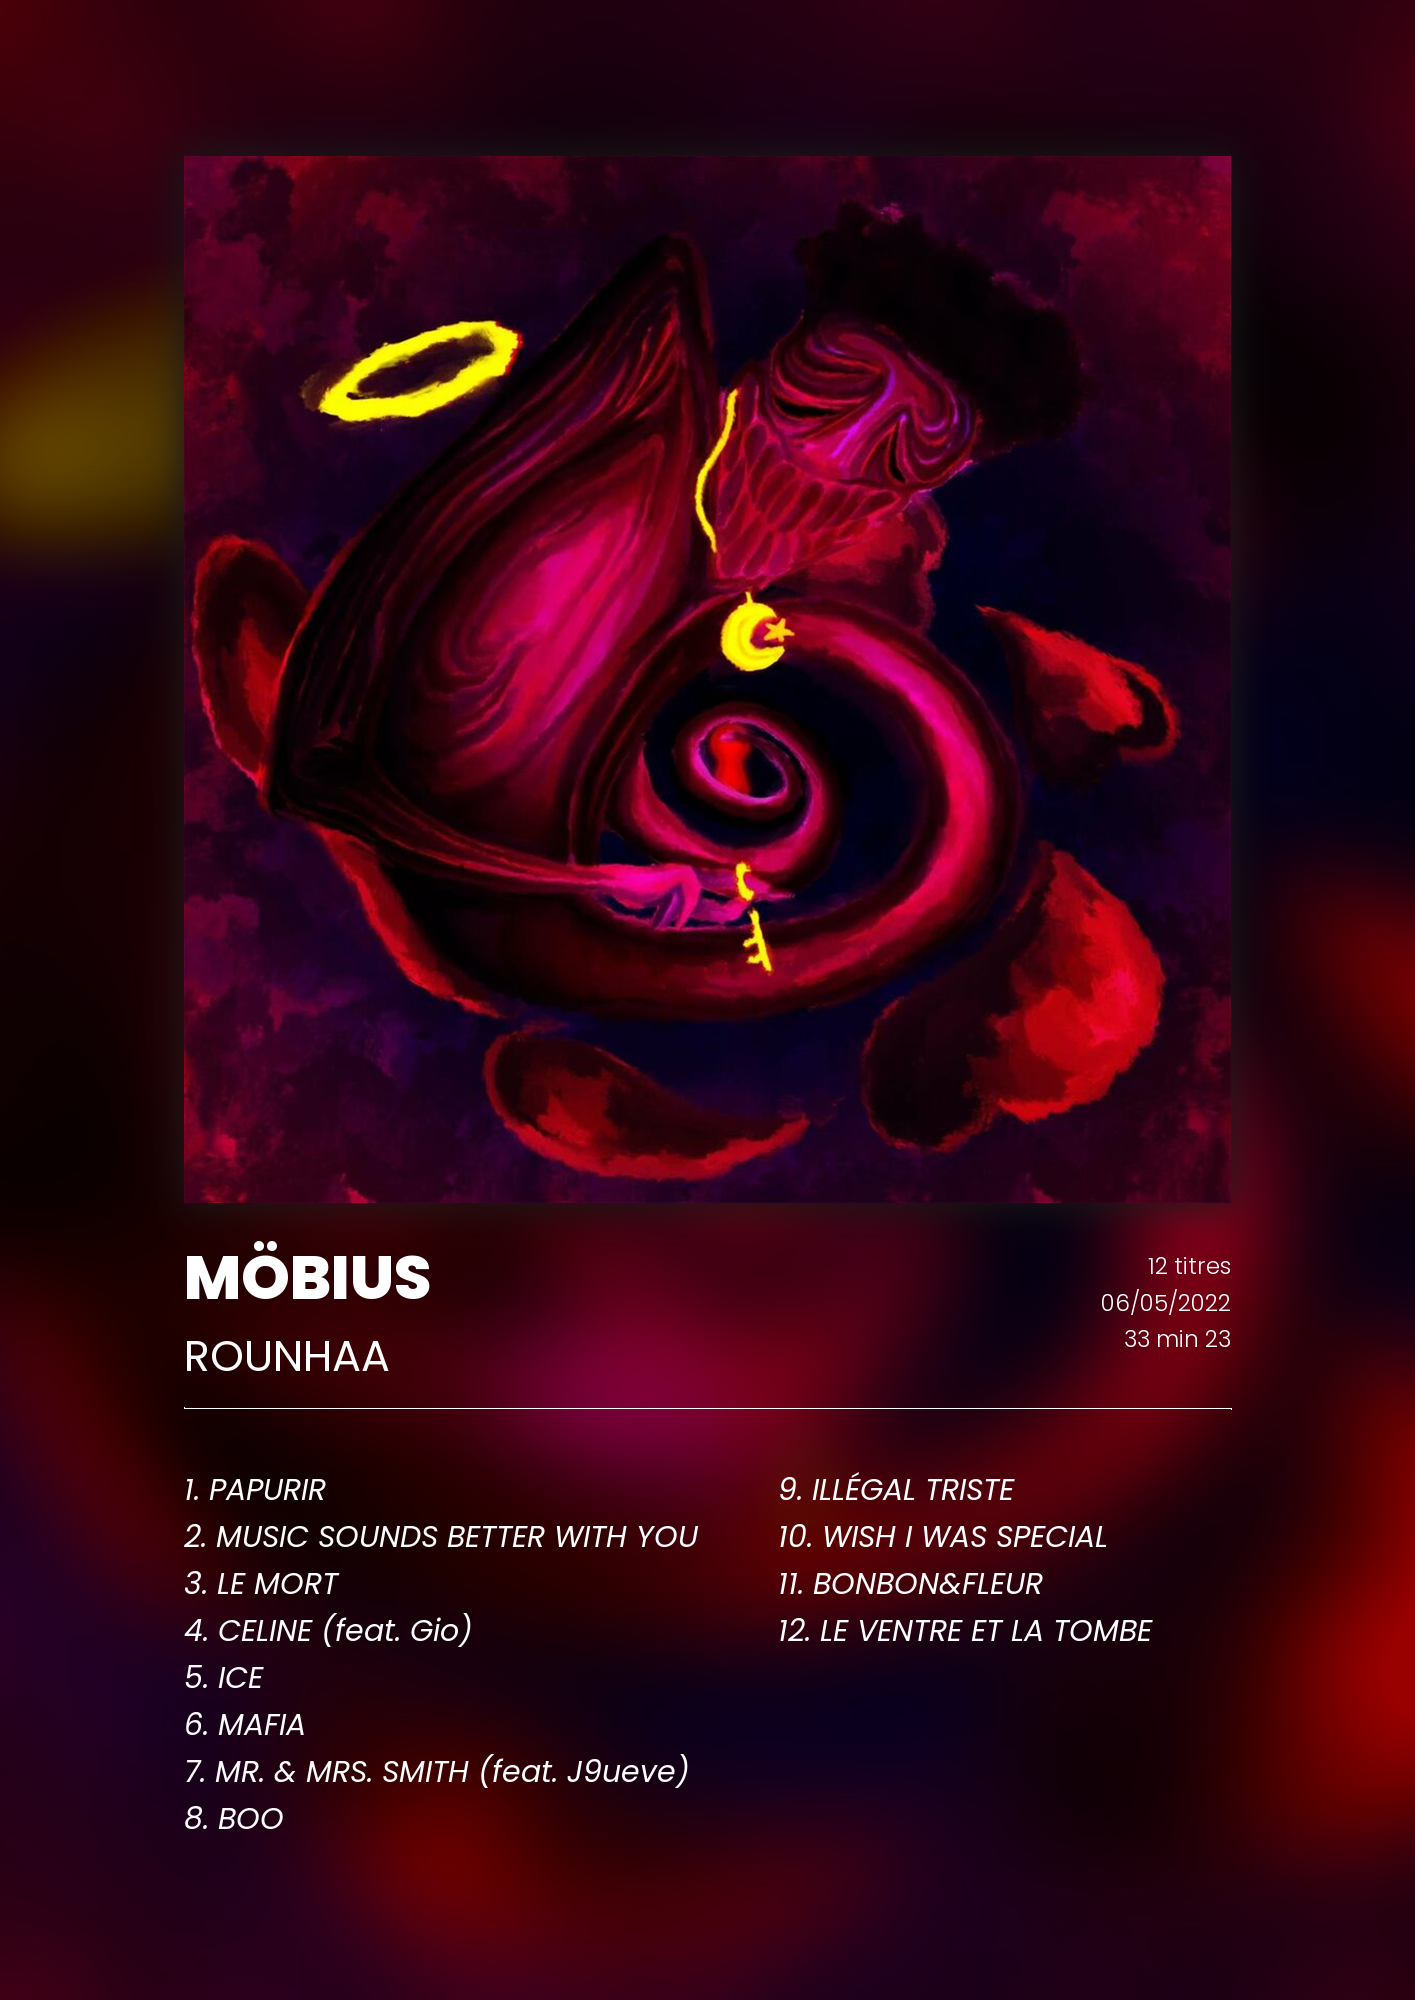
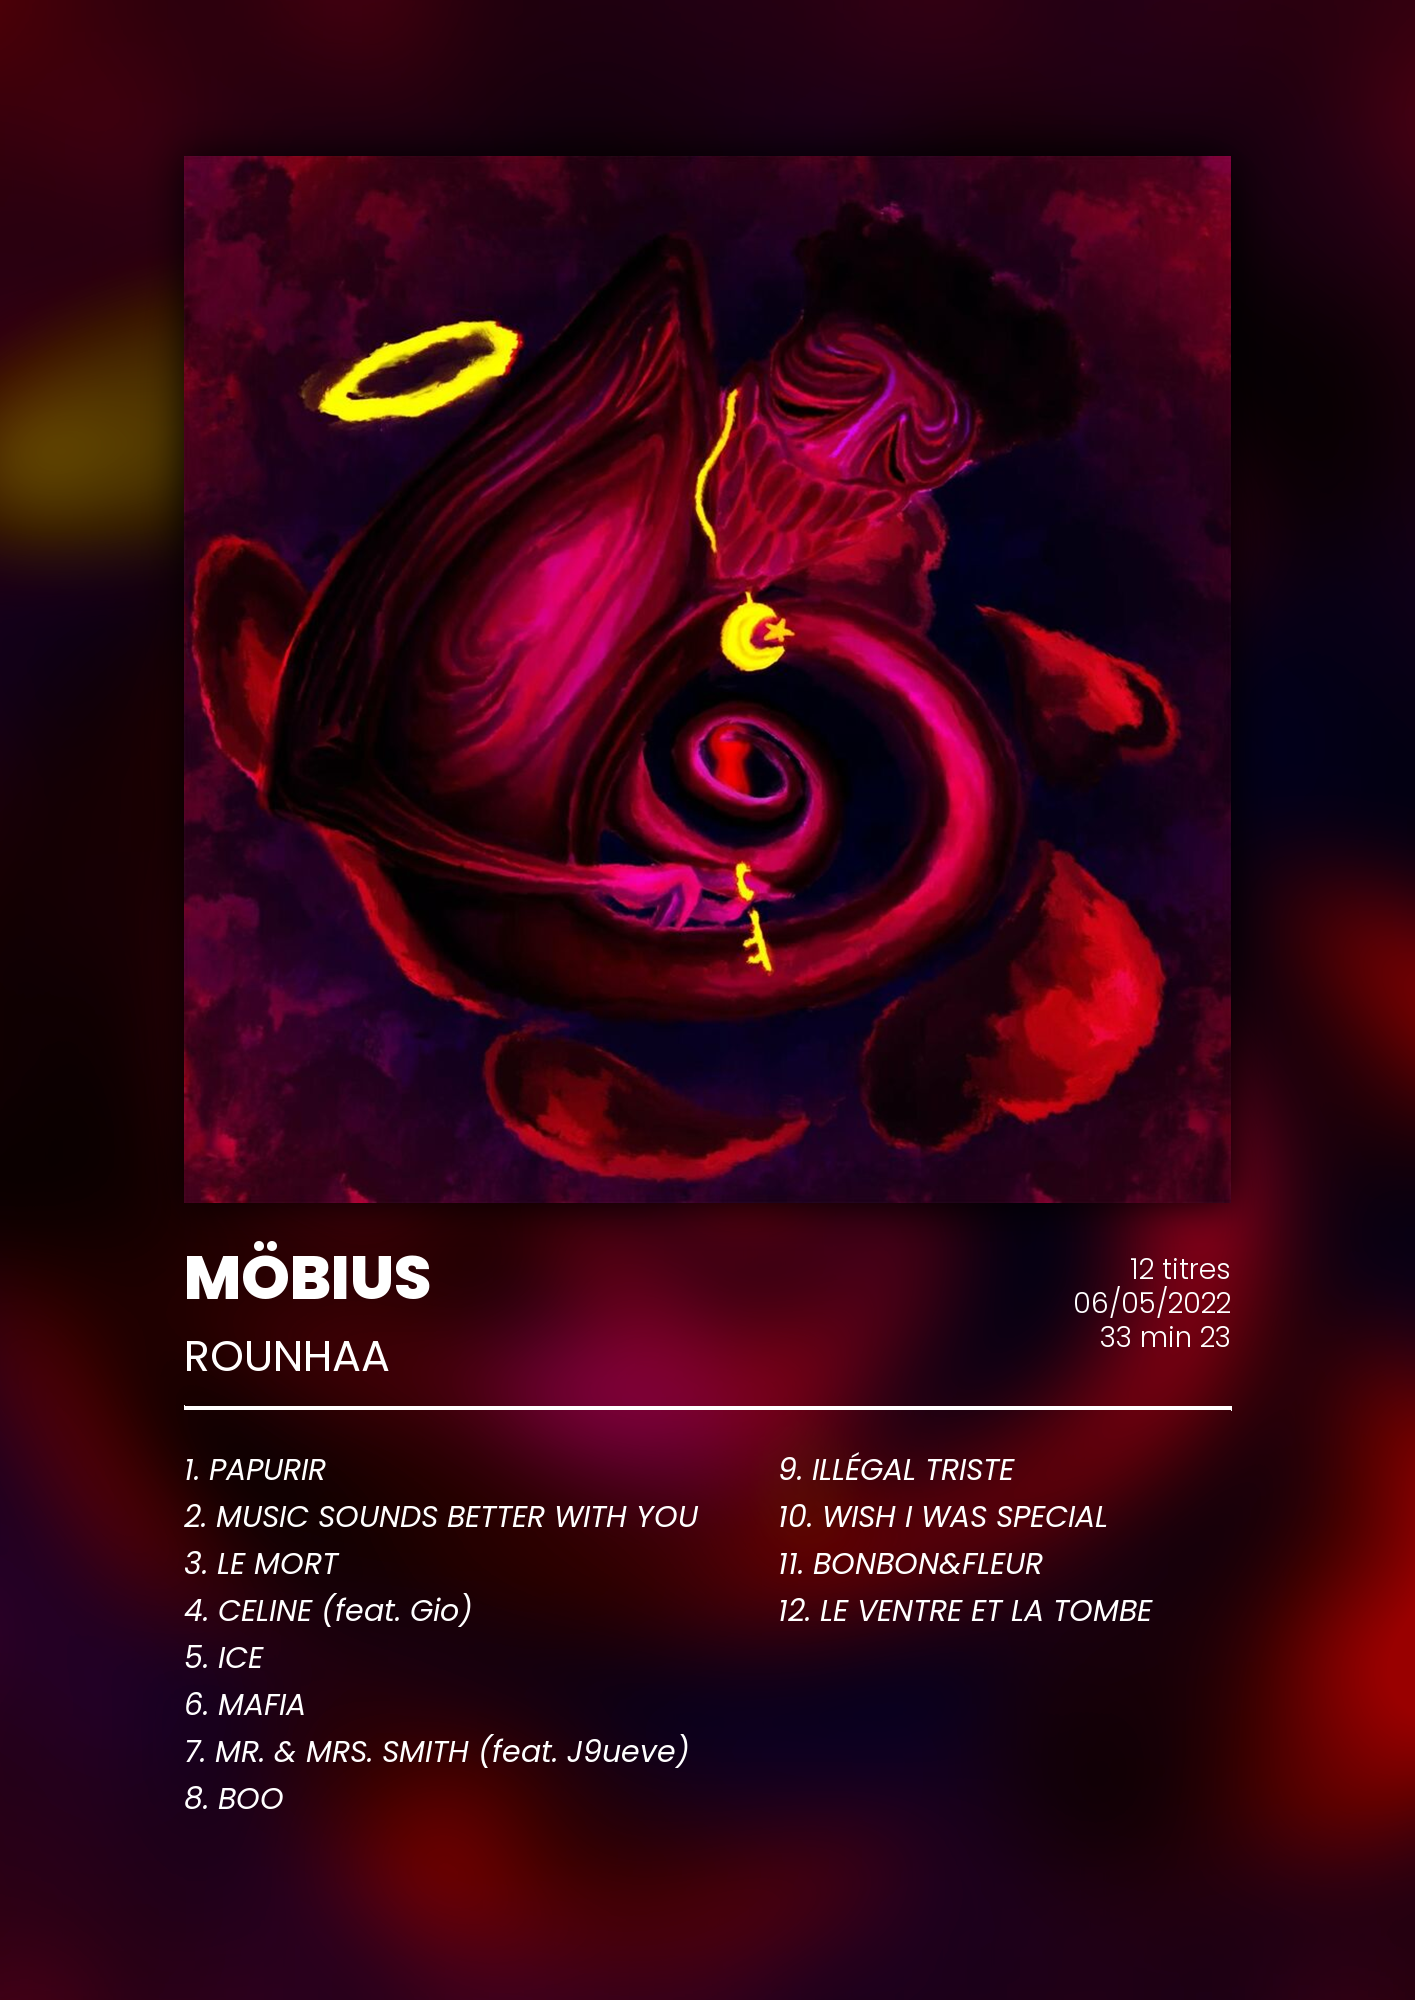
Album Posters Generator

Changed region(s): [[0.1244, 0.713, 0.4975, 0.93], [0.5286, 0.713, 0.8085, 0.837], [0.7774, 0.62, 0.8707, 0.682]]

diff --git a/album_poster_generator_1.py b/album_poster_generator_1.py
@@ -1,16 +1,8 @@
 import math
 
 from PIL import Image, ImageFilter, ImageDraw, ImageFont, ImageEnhance
-import requests
-import shutil
-from datetime import datetime
 
-DOMAIN = "https://api.deezer.com/"
-search_domain = DOMAIN + "search/album"
-album_domain = DOMAIN + "album/"
-
-absolute_directory = ""
-download_directory = absolute_directory + "downloaded_covers/"
+import core
 
 print("Bienvenue dans le générateur de poster de cover d'album !\n")
 
@@ -27,10 +19,10 @@ while True:
         background_darkness = 0.4
         default_album_name_font_size_percentage = 3.1
         default_artist_name_font_size_percentage = 2.1
-        default_album_infos_font_size_percentage = 1.15
+        default_album_infos_font_size_percentage = 1.4
         resolution_multiplicator = 2
-        center_image_shadow_blur = 9
-        center_image_shadow_size_percentage = 1.2
+        center_image_shadow_blur = 10
+        center_image_shadow_size_percentage = 1
         center_image_shadow_color = (0, 0, 0)
         background_saturation = 1.75
     elif mode == "custom":
@@ -69,58 +61,21 @@ while True:
 
     print("\nEntrez le nom d'un album :")
     album_to_search = input("> ")
-    PARAMS = {"q": album_to_search}
 
-    response_raw = requests.get(url=search_domain, params=PARAMS)
-    response = response_raw.json()
-    result_id = str(response["data"][0]["id"])
-
-    response_raw = requests.get(url=album_domain + result_id)
-    response = response_raw.json()
-
-    album_name = response["title"]
-
-    artist_name = response["artist"]["name"]
-    if len(response["contributors"]) > 1:
-        for i in range(1, len(response["contributors"])):
-            artist_name = artist_name + ", " + response["contributors"][i]["name"]
-
-    release_date_raw = response["release_date"]
-    release_date = datetime.strptime(release_date_raw, "%Y-%m-%d").strftime('%d/%m/%Y')
-
-    tracks_count_raw = int(response["nb_tracks"])
-    tracks_count = str(tracks_count_raw) + " titres"
-    if tracks_count_raw > 22:
-        RuntimeError("The album contains too much tracks")
-
-    duration_raw = response["duration"]
-    minutes = math.floor(duration_raw / 60)
-    seconds = duration_raw - minutes * 60
-    if seconds >= 10:
-        seconds_formated = str(seconds)
-    else:
-        seconds_formated = "0" + str(seconds)
-    duration = str(minutes) + " min " + seconds_formated
+    album = core.getAlbum(album_to_search)
 
     tracks = ""
     tracks_second = ""
     longest_track = 0
     longest_second_track = 0
-    if tracks_count_raw <= 16:
+    if album.tracks_count_raw <= 16:
         max_per_column = 8
-        default_text_font_size_percentage = 1 + 4 / min(tracks_count_raw, 8)
+        default_text_font_size_percentage = 1 + 4 / min(album.tracks_count_raw, 8)
     else:
         max_per_column = 11
         default_text_font_size_percentage = 1.2
 
-    file_name = album_name + " - " + artist_name + ".jpg"
-    image_response = requests.get(response["cover_xl"], stream=True)
-    with open(download_directory + file_name, "wb") as f:
-        shutil.copyfileobj(image_response.raw, f)
-
-    cover_link = download_directory + file_name
-
-    cover = Image.open(cover_link).convert("RGB")
+    cover = Image.open(album.cover_link).convert("RGB")
 
     cover = cover.resize(
         (math.ceil(cover.size[0] * resolution_multiplicator), math.ceil(cover.size[1] * resolution_multiplicator)))
@@ -133,18 +88,18 @@ while True:
 
     text_font_size = default_text_font_size_percentage * cover_height / 100
     ImageDraw.ImageDraw.font = ImageFont.truetype(
-        absolute_directory + "fonts/Poppins-Italic.ttf",
+        "fonts/Poppins-Italic.ttf",
         size=math.ceil(text_font_size))
 
-    for i in range(0, min(tracks_count_raw, max_per_column)):
-        track_title = response["tracks"]["data"][i]["title"]
+    for i in range(0, min(album.tracks_count_raw, max_per_column)):
+        track_title = album.tracks[i]["title"]
         formated_track = str(i + 1) + ". " + track_title + "\n"
         tracks += formated_track
         if ImageDraw.ImageDraw.font.getlength(formated_track) > longest_track:
             longest_track = ImageDraw.ImageDraw.font.getlength(formated_track)
 
-    for i in range(max_per_column, tracks_count_raw):
-        track_title = response["tracks"]["data"][i]["title"]
+    for i in range(max_per_column, album.tracks_count_raw):
+        track_title = album.tracks[i]["title"]
         formated_track_second = str(i + 1) + ". " + track_title + "\n"
         tracks_second += formated_track_second
         if ImageDraw.ImageDraw.font.getlength(formated_track_second) > longest_second_track:
@@ -152,26 +107,26 @@ while True:
 
     album_infos_font_size = default_album_infos_font_size_percentage * cover_height / 100
     album_infos_font = ImageFont.truetype(
-        absolute_directory + "fonts/Poppins-Light.ttf",
+        "fonts/Poppins-Light.ttf",
         size=math.ceil(album_infos_font_size))
 
-    if len(album_name) > 10:
+    if len(album.album_name) > 10:
         album_name_font_size = default_album_name_font_size_percentage * cover_height / 100 - (
-                len(album_name) - 10) * 0.7
+                len(album.album_name) - 10) * 0.7
     else:
         album_name_font_size = default_album_name_font_size_percentage * cover_height / 100
     album_name_font = ImageFont.truetype(
-        absolute_directory + "fonts/Poppins-ExtraBold.ttf",
+        "fonts/Poppins-ExtraBold.ttf",
         size=math.ceil(album_name_font_size))
 
-    if len(artist_name) > 15:
+    if len(album.artist_name) > 15:
         artist_name_font_size = default_artist_name_font_size_percentage * cover_height / 100 - (
-                len(artist_name) - 10) * 0.25
+                len(album.artist_name) - 10) * 0.25
     else:
         artist_name_font_size = default_artist_name_font_size_percentage * cover_height / 100 - (
-                len(album_name) - 10) * 0.15
+                len(album.album_name) - 10) * 0.15
     artist_name_font = ImageFont.truetype(
-        absolute_directory + "fonts/Poppins-Regular.ttf",
+        "fonts/Poppins-Regular.ttf",
         size=math.ceil(artist_name_font_size))
 
     center_image_padding_sides = math.ceil(poster_width * center_image_padding_sides_percentage / 100)
@@ -191,9 +146,9 @@ while True:
     center_image_shadow_mask_cutout = ImageDraw.Draw(center_image_shadow_mask)
     center_image_shadow_size = (center_image_shadow_size_percentage - 1) * poster_width / 100
     center_image_shadow_mask_cutout_size = (
-    center_image_padding_sides - center_image_shadow_size, center_image_padding_top - center_image_shadow_size,
-    center_image_padding_sides + center_image_size + center_image_shadow_size,
-    center_image_padding_top + center_image_size + center_image_shadow_size)
+        center_image_padding_sides - center_image_shadow_size, center_image_padding_top - center_image_shadow_size,
+        center_image_padding_sides + center_image_size + center_image_shadow_size,
+        center_image_padding_top + center_image_size + center_image_shadow_size)
     center_image_shadow_mask_cutout.rectangle(center_image_shadow_mask_cutout_size, fill=255)
     center_image_shadow_mask = center_image_shadow_mask.filter(
         ImageFilter.GaussianBlur(center_image_shadow_blur * resolution_multiplicator))
@@ -202,32 +157,32 @@ while True:
     poster.paste(center_image, (center_image_padding_sides, center_image_padding_top))
 
     draw = ImageDraw.Draw(poster)
-
     top_offset = center_image_padding_top + center_image_size + cover_height * 0.015
-    draw.text((center_image_padding_sides, top_offset), album_name.upper(), font=album_name_font)
+    draw.text((center_image_padding_sides, top_offset), album.album_name.upper(), font=album_name_font)
 
     top_offset += album_name_font_size + cover_height * 0.015
-    draw.text((center_image_padding_sides, top_offset), artist_name.upper(), font=artist_name_font)
+    draw.text((center_image_padding_sides, top_offset), album.artist_name.upper(), font=artist_name_font)
 
     top_offset += artist_name_font_size + cover_height * 0.02
-    draw.line((center_image_padding_sides, top_offset) + (center_image_size + center_image_padding_sides, math.ceil(top_offset)),
-              width=math.ceil(0.001 * cover_height))
+    draw.line((center_image_padding_sides, top_offset) + (
+    center_image_size + center_image_padding_sides, math.ceil(top_offset)),
+              width=math.ceil(0.0025 * cover_height))
 
     line_spacing = text_font_size / 2
-    top_offset += cover_height * 0.03
+    top_offset += cover_height * 0.02
     draw.multiline_text((center_image_padding_sides, top_offset), tracks, spacing=line_spacing)
     tracks_second_offset = ((poster_width - center_image_padding_sides - longest_second_track) + (
-                center_image_padding_sides + longest_track)) / 2
+            center_image_padding_sides + longest_track)) / 2
     draw.multiline_text((tracks_second_offset, top_offset),
                         tracks_second, spacing=line_spacing)
 
-    line_spacing = album_infos_font_size / 2
-    album_infos = tracks_count + "\n" + release_date + "\n" + duration
+    line_spacing = album_infos_font_size / 2.5
+    album_infos = album.tracks_count + "\n" + album.release_date + "\n" + album.duration
     top_offset = center_image_padding_top + center_image_size + cover_height * 0.05
     draw.multiline_text((poster_width - center_image_padding_sides, top_offset), album_infos, align="right",
-                        anchor="rm", font=album_infos_font, spacing=line_spacing)
+                        anchor="rm", font=album_infos_font)
 
-    target_file_name = "results/" + "Poster " + album_name + " - " + artist_name + ".png"
+    target_file_name = "results/" + "Poster " + album.album_name + " - " + album.artist_name + ".png"
     poster.save(target_file_name)
     poster.show()
 

diff --git a/core.py b/core.py
@@ -1,0 +1,85 @@
+import math
+
+import requests
+import shutil
+from datetime import datetime
+
+DOMAIN = "https://api.deezer.com/"
+search_domain = DOMAIN + "search/album"
+album_domain = DOMAIN + "album/"
+
+absolute_directory = ""
+download_directory = absolute_directory + "downloaded_covers/"
+
+
+class Album:
+    album_name = "Garçon"        # example values
+    artist_name = "Luther"
+    release_date = "01/01/2000"
+    tracks_count_raw = 0
+    tracks_count = "0 titres"
+    duration_raw = 0
+    duration = "0 min 00"
+    cover_link = "download_directory/cover.jpg"
+    tracks = [{"title": "ALAKAZAM", "note": "8.5/10"}, {"title": "Garçon", "note": "10/10"}]
+
+    def __init__(self, _album_name=album_name, _release_date=release_date, _tracks_count_raw=tracks_count_raw,
+                 _tracks_count=tracks_count, _duration_raw=duration_raw, _duration=duration, _cover_link=cover_link,
+                 _tracks=tracks, _artist_name=artist_name):
+        self.album_name = _album_name
+        self.release_date = _release_date
+        self.tracks_count_raw = _tracks_count_raw
+        self.tracks_count = _tracks_count
+        self.duration_raw = _duration_raw
+        self.duration = _duration
+        self.cover_link = _cover_link
+        self.tracks = _tracks
+        self.artist_name = _artist_name
+
+
+def getAlbum(album_to_search):
+    PARAMS = {"q": album_to_search}
+
+    response_raw = requests.get(url=search_domain, params=PARAMS)
+    response = response_raw.json()
+    result_id = str(response["data"][0]["id"])
+
+    response_raw = requests.get(url=album_domain + result_id)
+    response = response_raw.json()
+
+    album_name = response["title"]
+
+    artist_name = response["artist"]["name"]
+    if len(response["contributors"]) > 1:
+        for i in range(1, len(response["contributors"])):
+            artist_name = artist_name + ", " + response["contributors"][i]["name"]
+
+    release_date_raw = response["release_date"]
+    release_date = datetime.strptime(release_date_raw, "%Y-%m-%d").strftime('%d/%m/%Y')
+
+    tracks_count_raw = int(response["nb_tracks"])
+    tracks_count = str(tracks_count_raw) + " titres"
+    if tracks_count_raw > 22:
+        RuntimeError("The album contains too much tracks")
+
+    duration_raw = response["duration"]
+    minutes = math.floor(duration_raw / 60)
+    seconds = duration_raw - minutes * 60
+    if seconds >= 10:
+        seconds_formated = str(seconds)
+    else:
+        seconds_formated = "0" + str(seconds)
+    duration = str(minutes) + " min " + seconds_formated
+
+    file_name = album_name + " - " + artist_name + ".jpg"
+    image_response = requests.get(response["cover_xl"], stream=True)
+    with open(download_directory + file_name, "wb") as f:
+        shutil.copyfileobj(image_response.raw, f)
+
+    cover_link = download_directory + file_name
+
+    tracks = response["tracks"]["data"]
+
+    album = Album(album_name, release_date, tracks_count_raw, tracks_count, duration_raw,
+                  duration, cover_link, tracks, artist_name)
+    return album

diff --git a/album_poster_generator_2.py b/album_poster_generator_2.py
@@ -1,45 +1,55 @@
 from PIL import Image
-import math
+import core
 
-absolute_directory = ""
 
-image = Image.open(
-    absolute_directory + "downloaded_covers/UNE MAIN LAVE L'AUTRE - Alpha Wann.jpg")
+image_link = core.getAlbum(input("album > ")).cover_link
+image = Image.open(image_link)
 
 reduction = 50
 autoreduction = 50
 channels = "RGB"
 
-small_cover = image.reduce(reduction)
-pixels = list()
-for i in range(math.ceil(1000 / reduction)):
-    for j in range(math.ceil(1000 / reduction)):
-        pixels.append(small_cover.getpixel((i, j)))
+small_cover = image.reduce(reduction).convert(channels)
+constant_pixels = []
+for i in range(small_cover.size[0]):
+    for j in range(small_cover.size[1]):
+        constant_pixels.append(small_cover.getpixel((i, j)))
+print(constant_pixels)
 
 
 def distance_couleur(couleur1, couleur2):
     r1, g1, b1 = couleur1
     r2, g2, b2 = couleur2
-    return math.sqrt((r1 - r2) ** 2 + (g1 - g2) ** 2 + (b1 - b2) ** 2)
+    # return math.sqrt((r1 - r2) ** 2 + (g1 - g2) ** 2 + (b1 - b2) ** 2)
+    # return abs(r1 - r2) + abs(g1 - g2) + abs(b1 - b2)
+    return max(max(abs(r1 - r2), abs(g1 - g2)), b1 - b2)
 
 
 important_pixels = []
+index = 100
 pixels = []
-for x in range(small_cover.size[0]):
-    for y in range(small_cover.size[1]):
-        pixels.append(small_cover.getpixel((x, y)))
+while len(important_pixels) != 5:
+    important_pixels = []
+    pixels = []
+    for i in range(small_cover.size[0]):
+        for j in range(small_cover.size[1]):
+            pixels.append(small_cover.getpixel((i, j)))
+    for i in range(len(pixels)):
+        for j in range(i + 1, len(pixels)):
+            if pixels[i] is not None and pixels[j] is not None:
+                if distance_couleur(pixels[i], pixels[j]) < index:
+                    pixels[j] = None
+    for i in range(len(pixels)):
+        if pixels[i] is not None:
+            important_pixels.append(pixels[i])
+    if len(important_pixels) > 5:
+        index += 2
+    elif len(important_pixels) < 5:
+        index -= 2
+    if index < 90:
+        break
 
-for i in range(len(pixels)):
-    for j in range(i, len(pixels)):
-        if pixels[j] is not None and pixels[i] is not None:
-            if distance_couleur(pixels[i], pixels[j]) < 10:
-                pixels[j] = None
+print(str(important_pixels) + str(index))
 
-i = 0
-while None in pixels:
-    if pixels[i] is None:
-        pixels.pop(i)
-    else:
-        i += 1
-
-print(pixels)
+for i in range(len(important_pixels)):
+    Image.new("RGB", (300, 300), important_pixels[i]).show()
